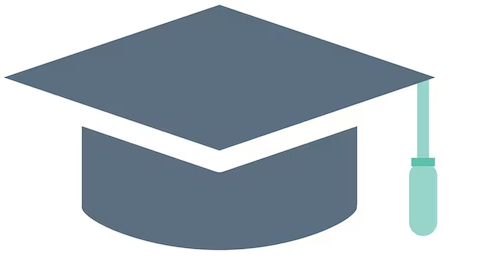
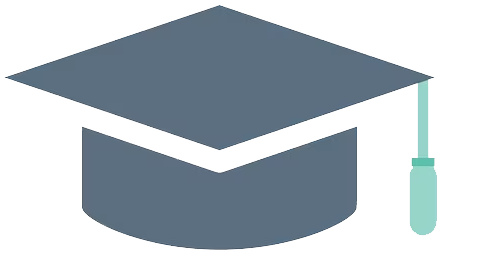
Amélioration des images

diff --git a/src/signup_form.html b/src/signup_form.html
@@ -74,22 +74,22 @@
       background-color: transparent;
       border: none;
       cursor: pointer;
-      border: 2px solid #2b8bf8; /* Ajout de la bordure bleue */
+      border: 2px solid #1C7194; /* Ajout de la bordure bleue */
       height: 100px; /* Ajustez la hauteur des boutons selon vos préférences */
       transition: background-color 0.3s ease-in-out; /* Transition pour la couleur de fond */
       text-align: center;
     }
 
     .button-group button.active {
-      background-color: #2b8bf8; /* Couleur de fond verte pour le bouton actif */
+      background-color: #1C7194; /* Couleur de fond verte pour le bouton actif */
     }
 
     .button-group button.active.blue {
-      background-color: #2b8bf8; /* Couleur de fond bleue pour le bouton actif avec la classe "blue" */
+      background-color: #1C7194; /* Couleur de fond bleue pour le bouton actif avec la classe "blue" */
     }
 
     .button-group button:hover {
-      background-color: #2b8bf8;
+      background-color: #1C7194;
     }
 
     .button-group button .button-content {
@@ -120,7 +120,7 @@
     }
 
     .button-group .first-button.active.blue {
-      background-color: #2b8bf8; /* Couleur de fond bleue pour le bouton actif avec la classe "blue" */
+      background-color: #1C7194; /* Couleur de fond bleue pour le bouton actif avec la classe "blue" */
     }
 
     .button-group .first-button:hover {
@@ -195,7 +195,7 @@
 }
 
 .company {
-  color: #2b8bf8; /* Couleur du texte en bleu par défaut */
+  color: #1C7194; /* Couleur du texte en bleu par défaut */
 }
 
 .button-group button.active .button-content .company,
@@ -232,7 +232,7 @@
       </button>
       <button onclick="toggleSignupForm('signup-form-2', this)">
         <div class="button-content">
-          <img src="../assets/costume.jpg" alt="Entreprise">
+          <img src="../assets/costume.png" alt="Entreprise">
           <span>Je m'inscris en tant qu'<b><span class="company">Entreprise</span></b></span>
         </div>
       </button>
@@ -312,10 +312,10 @@
         var entrepriseText = document.querySelector(".button-group button:last-child .company");
         if (button.classList.contains("active")) {
             candidatText.style.color = "#00958E";
-            entrepriseText.style.color = "#2b8bf8";
+            entrepriseText.style.color = "#1C7194";
         } else {
             candidatText.style.color = "#00958E";
-            entrepriseText.style.color = "#2b8bf8";
+            entrepriseText.style.color = "#1C7194";
 }
     }
   </script>
